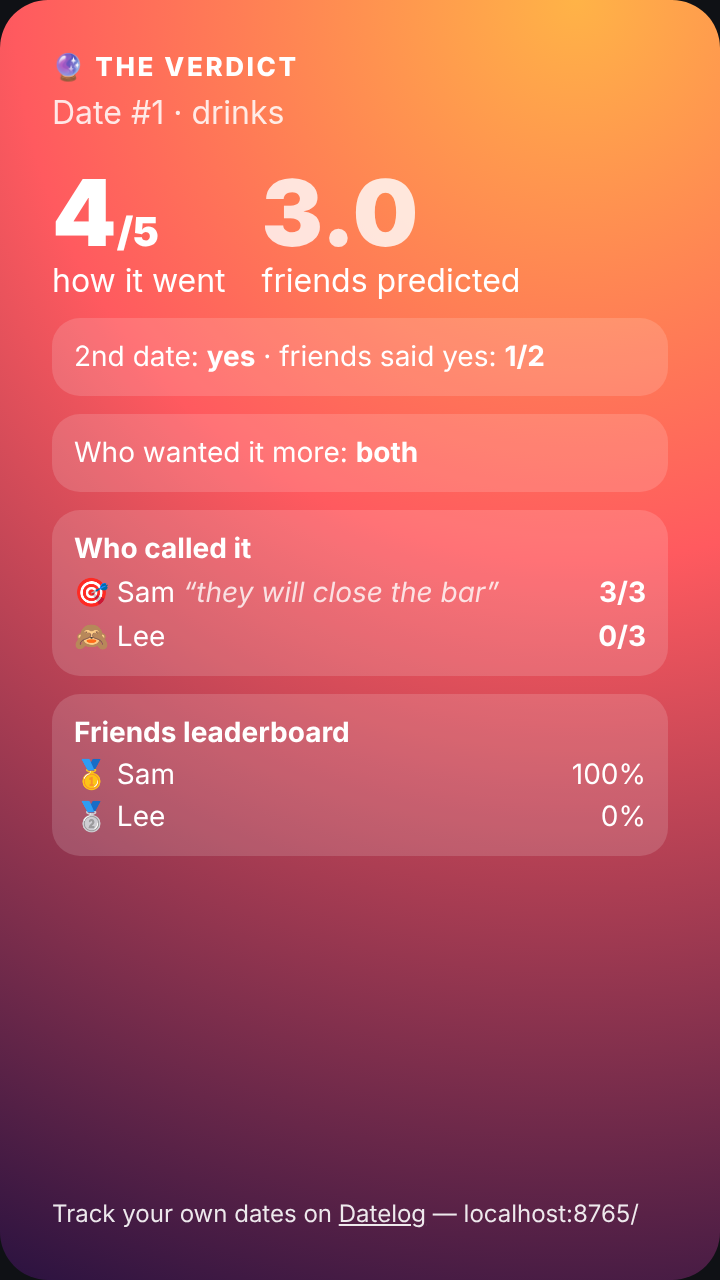
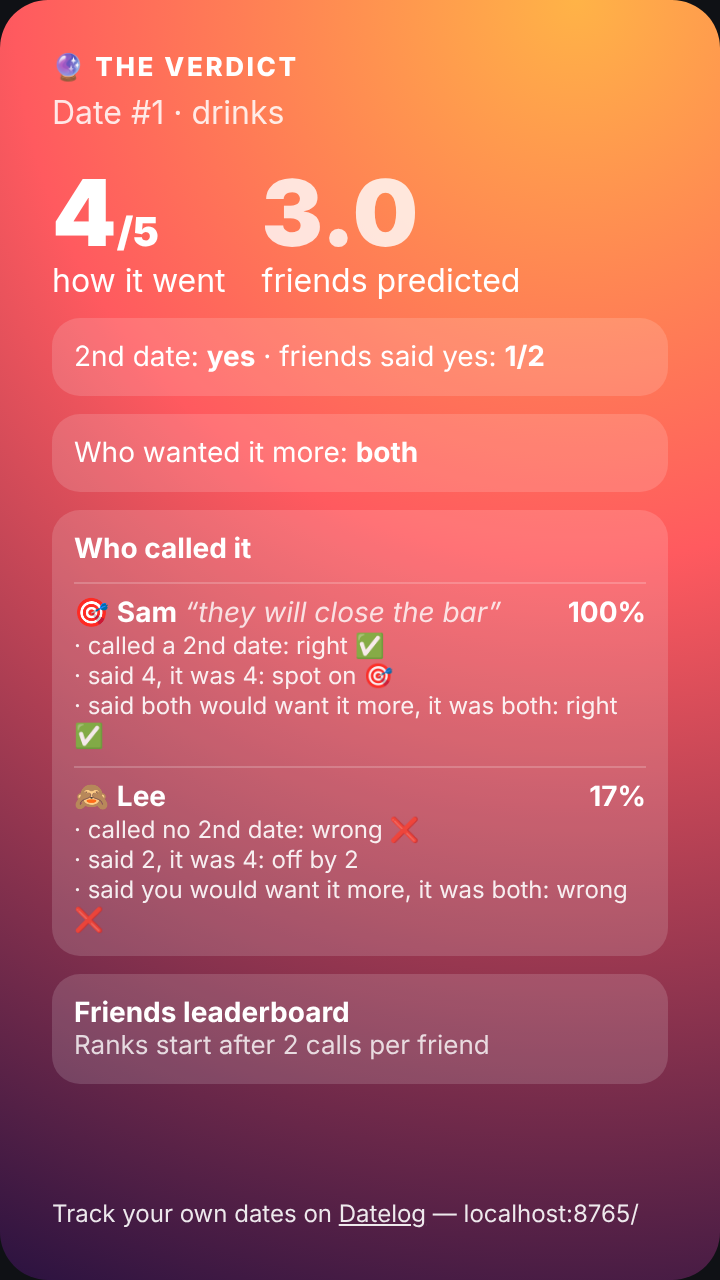
Call it: per-call accuracy (2nd-date, how-it-went error, who-wants-more), verdict breakdown, leaderboard with tiers & 2-call minimum

Changed region(s): [[0.0611, 0.4375, 0.9472, 0.8438]]

diff --git a/index.html b/index.html
@@ -189,7 +189,7 @@ function demo(){const T=OPT.type,A=['Hinge','Hinge','Bumble','Tinder','In person
   if(sec=='yes'){const d3=new Date(d);d3.setDate(d3.getDate()+7);out.push({...r,id:200+j,date:d3.toISOString().slice(0,10),type:'dinner',second:'not yet',they:[]})}});
  const up=(id,nick,dd,time,met,type,ex,hope,con)=>({id,demo:true,status:'upcoming',date:dd,time,nick,met,otherDetail:'',where:'(demo venue)',type,excite:ex,hoping:hope,concerns:con,concernOther:'',concernsRight:{},draw:['Banter/chat'],drawOther:'',went:null,mine:null,theirs:null,second:null,rating:null,why:[],whyOther:'',they:[],theyOther:'',note:''});
  const t=new Date(),fmt=x=>new Date(x-x.getTimezoneOffset()*6e4).toISOString().slice(0,10);
- out.push(up(300,'DEMO-P',fmt(new Date(t-2*864e5)),'19:00','Hinge','drinks',4,['Chemistry check'],['Nothing to talk about']),up(301,'DEMO-Q',fmt(new Date(+t+4*864e5)),'18:30','Bumble','activity',5,['Relationship potential'],['Looks different than photos','Too nervous']));const P=(f,p2,pw,pm,take='')=>({f,p2,pw,pm,take});out[1].preds=[P('Sam','yes',4,'both','they’ll close the bar'),P('Lee','no',3,'you')];out[3].preds=[P('Sam','no',2,'neither'),P('Ana','yes',4,'them','sparks!')];out[4].preds=[P('Sam','no',3,'you'),P('Lee','yes',4,'both')];out[7].preds=[P('Ana','yes',5,'both'),P('Lee','yes',4,'both')];out.find(x=>x.id==300).cid='demop001';
+ out.push(up(300,'DEMO-P',fmt(new Date(t-2*864e5)),'19:00','Hinge','drinks',4,['Chemistry check'],['Nothing to talk about']),up(301,'DEMO-Q',fmt(new Date(+t+4*864e5)),'18:30','Bumble','activity',5,['Relationship potential'],['Looks different than photos','Too nervous']));const P=(f,p2,pw,pm,take='')=>({f,p2,pw,pm,take});out[1].preds=[P('Sam','yes',4,'both','they’ll close the bar'),P('Lee','no',3,'you'),P('Kai','no',1,'neither')];out[3].preds=[P('Sam','no',2,'neither'),P('Ana','yes',4,'them','sparks!')];out[4].preds=[P('Sam','no',3,'you'),P('Lee','yes',4,'both')];out[5].preds=[P('Ana','yes',3,'both'),P('Kai','no',2,'them','total dud')];out[7].preds=[P('Ana','yes',5,'both'),P('Lee','yes',4,'both'),P('Jo','yes',5,'both')];out.find(x=>x.id==300).cid='demop001';
  return out}
 function bars(el,rows,bench,fmt){$(el).innerHTML=rows.length?rows.map(([l,a,b])=>{const p=pct(a,b),m=bench&&bench[l];return`<div class="bar"><span class="l">${esc(l)}</span><span class="t"><span class="f" style="width:${p}%;display:block"></span>${m!=null?`<span class="m" style="left:${m}%"></span>`:''}</span><span class="v">${p}%<small class="muted"> ${a}/${b}</small></span></div>`}).join(''):'<p class="muted">No data yet.</p>'}
 function cbars(el,a,empty){const mx=Math.max(1,...a.map(x=>x[1]));$(el).innerHTML=a.length?a.map(([k,v,x])=>`<div class="bar"><span class="l" style="width:150px">${esc(k)}</span><span class="t"><span class="f" style="width:${100*v/mx}%;display:block"></span></span><span class="v">${x??v}</span></div>`).join(''):`<p class="muted">${empty}</p>`}
@@ -274,16 +274,23 @@ function importReply(r){const d=r&&D.dates.find(x=>x.cid&&x.cid===r.t);if(!d){to
  const p={f:String(r.f).slice(0,12),p2:['yes','no'].includes(r.p2)?r.p2:null,pw:Math.min(5,Math.max(1,+r.pw||3)),pm:['you','them','both','neither'].includes(r.pm)?r.pm:null,take:String(r.take||'').slice(0,80)};
  d.preds=(d.preds||[]).filter(x=>x.f.toLowerCase()!==p.f.toLowerCase()).concat(p);save();render();toast('🔮 '+p.f+'’s call saved for '+d.nick)}
 const actMore=d=>{if(!d.mine||!d.theirs||d.theirs=='unknown')return null;const a=d.mine=='yes',b=d.theirs=='yes';return a&&b?'both':a?'you':b?'them':'neither'};
-function scorePred(d,p){const r=[];if(d.second=='yes'||d.second=='no')r.push(p.p2==d.second);if(d.went)r.push(Math.abs(p.pw-d.went)<=1);const m=actMore(d);if(m)r.push(p.pm==m);return{pts:r.filter(Boolean).length,max:r.length}}
-function leaderboard(){const L={};D.dates.filter(d=>d.status=='done').forEach(d=>(d.preds||[]).forEach(p=>{const k=p.f.toLowerCase(),s=scorePred(d,p);L[k]=L[k]||{f:p.f,pts:0,max:0,n:0};L[k].pts+=s.pts;L[k].max+=s.max;L[k].n++}));return Object.values(L).filter(x=>x.max).sort((a,b)=>b.pts/b.max-a.pts/a.max||b.n-a.n)}
-const lbHtml=()=>{const l=leaderboard();return l.length?l.map((x,i)=>`<div class="dr"><span>${['🥇','🥈','🥉'][i]||'·'} <b>${esc(x.f)}</b> <small class="muted">${x.n} date${x.n>1?'s':''}</small></span><span>${pct(x.pts,x.max)}% <small class="muted">${x.pts}/${x.max}</small></span></div>`).join(''):'<p class="muted">No scored predictions yet. Ask friends to call an upcoming date.</p>'};
+function scorePred(d,p){const parts=[],L=[];
+ if(d.second=='yes'||d.second=='no'){const r=p.p2==d.second;parts.push(r?1:0);L.push(`called ${p.p2=='yes'?'a':'no'} 2nd date: ${r?'right ✅':'wrong ❌'}`)}
+ let err=null;if(d.went&&p.pw){err=Math.abs(p.pw-d.went);parts.push(1-err/4);L.push(`said ${p.pw}, it was ${d.went}: ${err?'off by '+err:'spot on 🎯'}`)}
+ const m=actMore(d);if(m&&p.pm){const r=p.pm==m;parts.push(r?1:0);L.push(`said ${p.pm} would want it more, it was ${m}: ${r?'right ✅':'wrong ❌'}`)}
+ return{acc:parts.length?parts.reduce((a,b)=>a+b,0)/parts.length:null,err,hit:(d.second=='yes'||d.second=='no')?(p.p2==d.second):null,lines:L}}
+const tier=a=>a>=.85?'🔮 Oracle':a>=.65?'👀 Good read':a>=.4?'🪙 Coin flip':'🙈 Way off';
+function leaderboard(){const L={};D.dates.filter(d=>d.status=='done').forEach(d=>(d.preds||[]).forEach(p=>{const s=scorePred(d,p);if(s.acc==null)return;const k=p.f.toLowerCase();const o=L[k]=L[k]||{f:p.f,accs:[],errs:[],hits:[]};o.accs.push(s.acc);if(s.err!=null)o.errs.push(s.err);if(s.hit!=null)o.hits.push(s.hit)}));
+ return Object.values(L).map(o=>({f:o.f,n:o.accs.length,acc:avg(o.accs),miss:o.errs.length?avg(o.errs):null,hit:o.hits.length?o.hits.filter(Boolean).length/o.hits.length:null,ranked:o.accs.length>=2})).sort((a,b)=>(b.ranked-a.ranked)||b.acc-a.acc||b.n-a.n)}
+const P100=x=>x==null?'–':Math.round(100*x)+'%';
+const lbHtml=()=>{const l=leaderboard();let r=0;return l.length?'<table><tr><th>#</th><th>Friend</th><th>Accuracy</th><th>Calls</th><th>Avg miss</th><th>2nd-date hits</th></tr>'+l.map(x=>`<tr><td>${x.ranked?['🥇','🥈','🥉'][r]||(r+1):'·'}${x.ranked?(r++,''):''}</td><td><b>${esc(x.f)}</b><br><small class="muted">${x.ranked?tier(x.acc):'new · needs 2 calls'}</small></td><td><b>${P100(x.acc)}</b></td><td>${x.n}</td><td>${x.miss==null?'–':x.miss.toFixed(1)+' pts'}</td><td>${P100(x.hit)}</td></tr>`).join('')+'</table>':'<p class="muted">No scored predictions yet. Ask friends to call an upcoming date.</p>'};
 function verdict(id){const d=D.dates.find(x=>String(x.id)==String(id));const el=$('#verdictCard');if(!d||d.status!='done'){el.innerHTML=`<h2>Verdict not ready</h2><p>Review the date first.</p>${FOOT}`;return}
  people(true);const ps=d.preds||[],m=actMore(d),aw=ps.length?avg(ps.map(p=>p.pw)):null,y2=ps.filter(p=>p.p2=='yes').length;
  el.innerHTML=`<div style="font-weight:800;letter-spacing:.1em;font-size:13px">🔮 THE VERDICT</div><div class="s" style="opacity:.85;margin-top:4px">Date #${d._n} · ${esc(d.type)}</div>
  <div class="row" style="margin-top:18px;gap:18px"><div><div class="big">${d.went||'–'}<small style="font-size:20px">/5</small></div><div class="s">how it went</div></div><div><div class="big" style="opacity:.8">${aw==null?'–':f1(aw)}</div><div class="s">friends predicted</div></div></div>
  <div class="tile">2nd date: <b>${esc(d.second)}</b> · friends said yes: <b>${y2}/${ps.length}</b></div><div class="tile">Who wanted it more: <b>${m||'unknown'}</b></div>
- <div class="tile"><b>Who called it</b>${ps.map(p=>{const s=scorePred(d,p);return`<div style="display:flex;justify-content:space-between;margin-top:5px"><span>${s.max&&s.pts==s.max?'🎯':s.pts?'👍':'🙈'} ${esc(p.f)}${p.take?` <i style="opacity:.8">“${esc(p.take)}”</i>`:''}</span><b>${s.pts}/${s.max}</b></div>`}).join('')||'<div>No predictions</div>'}</div>
- <div class="tile"><b>Friends leaderboard</b>${leaderboard().slice(0,3).map((x,i)=>`<div style="display:flex;justify-content:space-between;margin-top:4px"><span>${['🥇','🥈','🥉'][i]} ${esc(x.f)}</span><span>${pct(x.pts,x.max)}%</span></div>`).join('')}</div>${FOOT}`}
+ <div class="tile"><b>Who called it</b>${ps.map(p=>{const s=scorePred(d,p);return`<div style="margin-top:8px;border-top:1px solid rgba(255,255,255,.2);padding-top:6px"><div style="display:flex;justify-content:space-between"><span>${s.acc==null?'⏳':s.acc>=.85?'🎯':s.acc>=.5?'👍':'🙈'} <b>${esc(p.f)}</b>${p.take?` <i style="opacity:.8">“${esc(p.take)}”</i>`:''}</span><b>${P100(s.acc)}</b></div>${s.lines.map(l=>`<div style="font-size:12px;opacity:.9">· ${esc(l)}</div>`).join('')}</div>`}).join('')||'<div>No predictions</div>'}</div>
+ <div class="tile"><b>Friends leaderboard</b>${(()=>{const l=leaderboard().filter(x=>x.ranked).slice(0,3);return l.length?l.map((x,i)=>`<div style="display:flex;justify-content:space-between;margin-top:4px"><span>${['🥇','🥈','🥉'][i]} ${esc(x.f)} <small style="opacity:.8">${tier(x.acc)}</small></span><span>${P100(x.acc)}</span></div>`).join(''):'<div style="font-size:13px;opacity:.8">Ranks start after 2 calls per friend</div>'})()}</div>${FOOT}`}
 document.addEventListener('click',e=>{const b=e.target.closest('.ask');if(!b)return;const d=D.dates.find(x=>String(x.id)==b.dataset.id);if(!d)return;const url=APP+'#callit='+enc(ask(d));
  if(navigator.share&&matchMedia('(pointer:coarse)').matches)navigator.share({title:'Call it!',text:'Call my date: will there be a 2nd?',url}).catch(()=>showLink('Ask friends to call it',url,'Send this to friends. Only nickname, date type, how you met, what drew you in, excitement & hopes are in the link.'));
  else showLink('Ask friends to call it',url,'Send this to friends. Only nickname, date type, how you met, what drew you in, excitement & hopes are in the link — never where, notes or dates.')});
